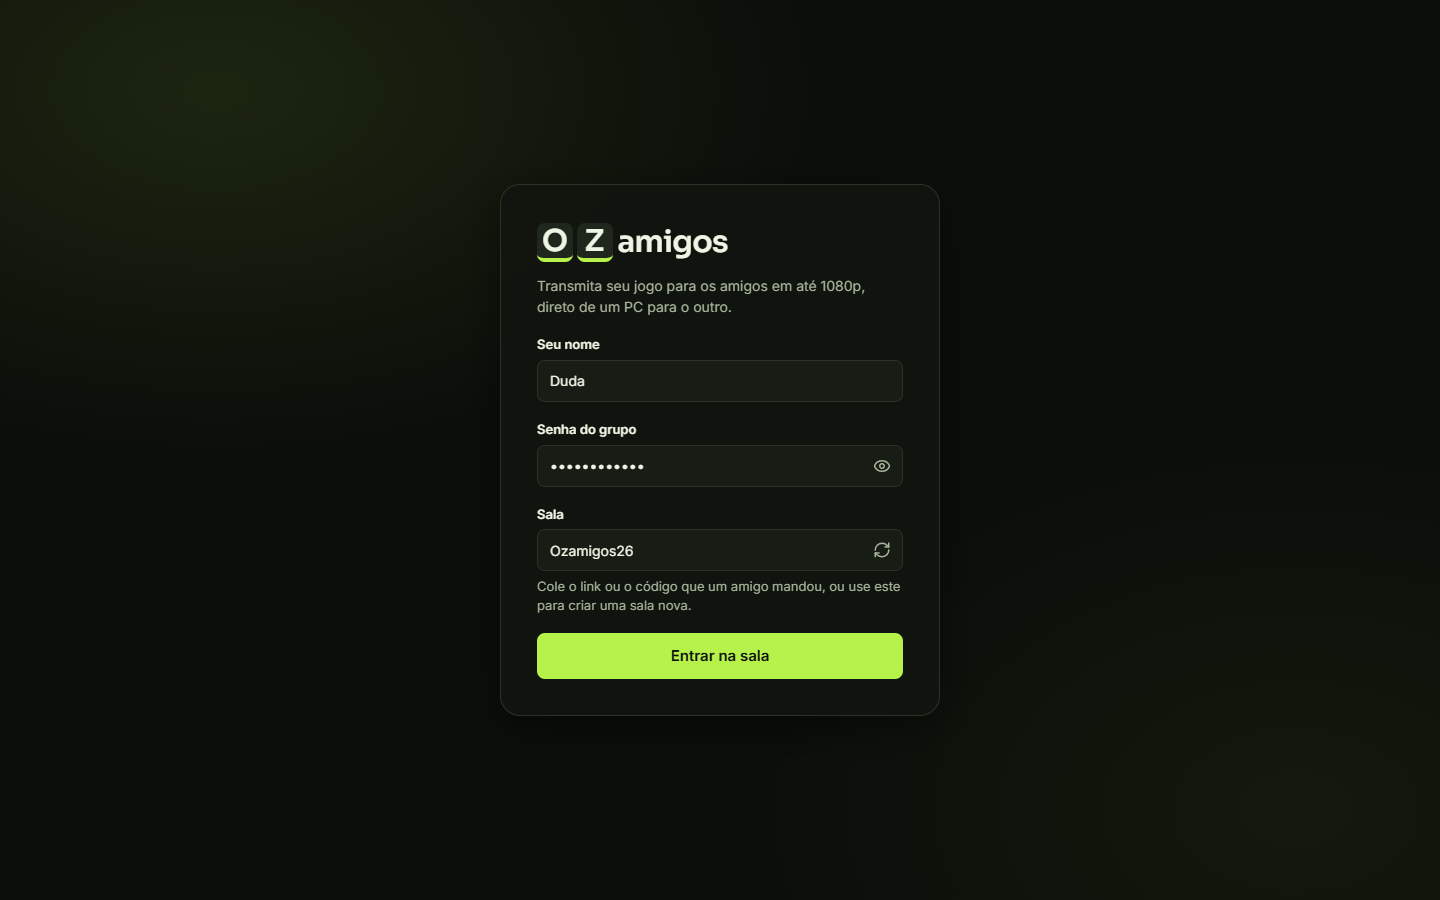
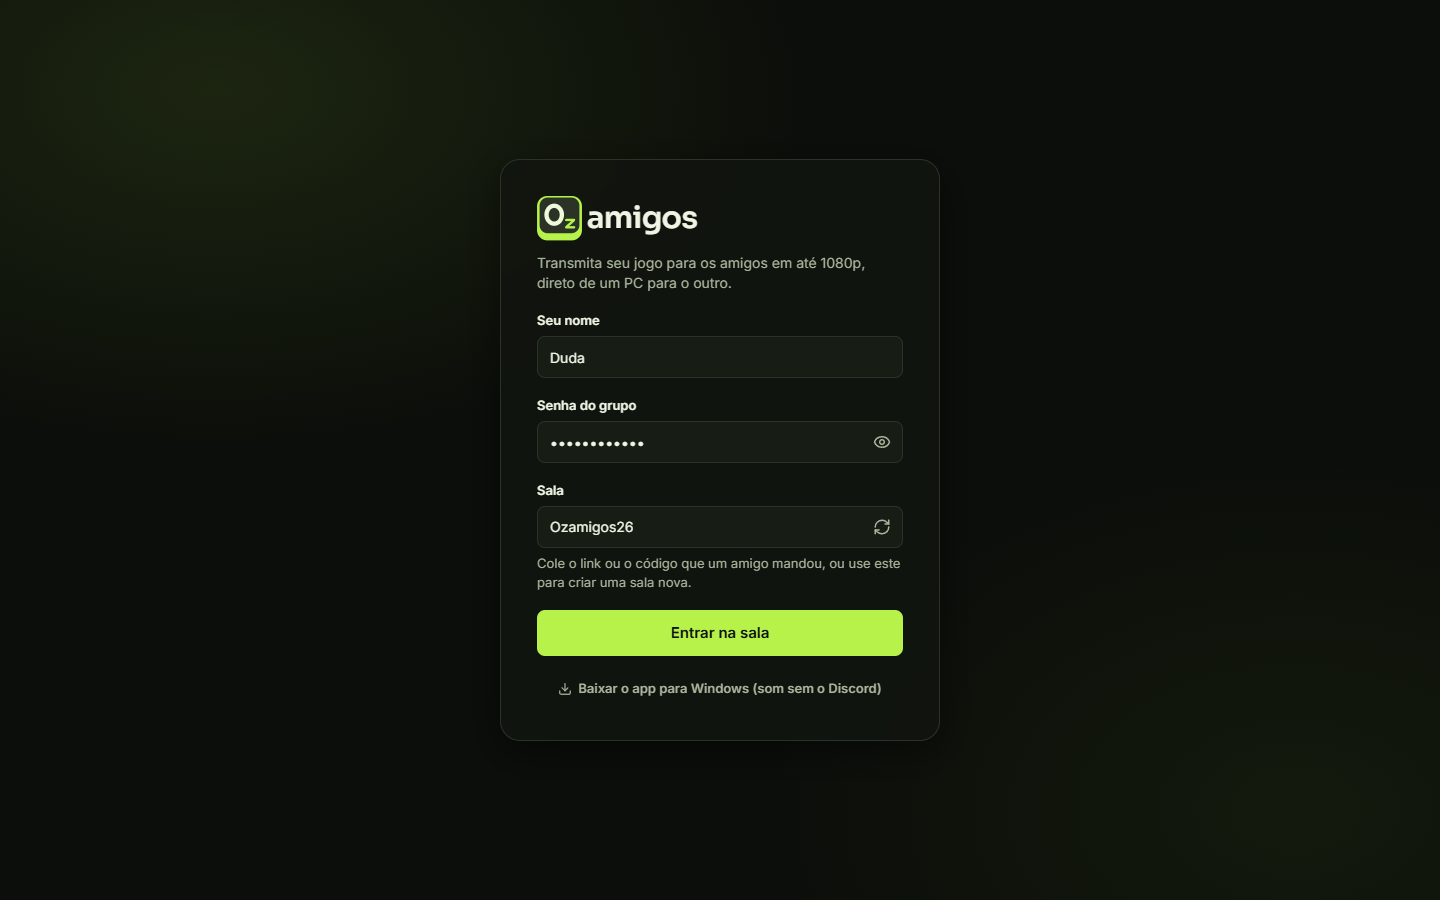
Versão 1.2.6 do app: logotipo com a tecla "Oz" do ícone
O logotipo passa a usar a própria tecla do ícone (mesmo desenho do "O" e do "z"),
seguida de "amigos", no lugar das teclas "O" e "Z" separadas. Vale para a interface,
o site (PT e EN), a tela de início e a janela de atualização do app e as imagens do README.

Changed region(s): [[0.375, 0.5289, 0.625, 0.7778], [0.375, 0.2178, 0.5938, 0.5289], [0.5938, 0.4667, 0.625, 0.4978]]

diff --git a/docs/vitrine/marca.html b/docs/vitrine/marca.html
@@ -7,14 +7,12 @@
   @font-face { font-family: 'Inter'; font-weight: 100 900; src: url('../../web/node_modules/@fontsource-variable/inter/files/inter-latin-wght-normal.woff2'); }
   html, body { margin: 0; background: transparent; }
 
-  /* O logotipo: "O" e "Z" em teclas, seguidos de "amigos". */
+  /* O logotipo: a tecla "Oz" do ícone (o mesmo desenho), seguida de "amigos". */
   .logo { display: inline-flex; align-items: center; padding: 6px; font-family: 'Sora'; font-weight: 600; font-size: 96px; letter-spacing: -0.02em; line-height: 1; }
-  .tecla { display: inline-grid; place-items: center; min-width: 1.2em; height: 1.3em; margin-right: 0.12em; padding: 0 0.14em; border-bottom: 0.14em solid #b6f24a; border-radius: 0.26em; letter-spacing: 0; }
-  /* Tema escuro do GitHub: tecla um pouco mais clara que o fundo e texto claro. */
-  .tema-escuro .tecla { background: #2a3326; color: #eef5e4; }
+  .tecla-oz { flex: none; width: 1.5em; height: 1.48em; margin-right: 0.16em; }
+  /* Tema escuro do GitHub: texto claro. */
   .tema-escuro .resto { color: #eef5e4; }
-  /* Tema claro: tecla escura, como num teclado, e texto quase preto. */
-  .tema-claro .tecla { background: #1f261c; color: #eef5e4; }
+  /* Tema claro: texto quase preto. */
   .tema-claro .resto { color: #0f130e; }
 
   /* Prévia de link (1280x640): logotipo, frase e um pedaço da sala. */
@@ -29,9 +27,9 @@
 </style>
 </head>
 <body>
-  <div id="logo" class="logo" hidden><span class="tecla">O</span><span class="tecla">Z</span><span class="resto">amigos</span></div>
+  <div id="logo" class="logo" hidden><svg class="tecla-oz" viewBox="4 5 88 87" aria-hidden="true"><rect x="4" y="5" width="88" height="87" rx="20" fill="#b6f24a"/><rect x="9" y="8" width="78" height="70" rx="16" fill="#2a3326"/><ellipse cx="37.6" cy="41.7" rx="15" ry="17.5" fill="none" stroke="#eef9dc" stroke-width="8.5"/><path d="M61 52h15.6L61 66.4h15.6" fill="none" stroke="#b6f24a" stroke-width="4.7" stroke-linecap="round" stroke-linejoin="round"/></svg><span class="resto">amigos</span></div>
   <div id="social" class="social tema-escuro" hidden>
-    <div class="logo"><span class="tecla">O</span><span class="tecla">Z</span><span class="resto">amigos</span></div>
+    <div class="logo"><svg class="tecla-oz" viewBox="4 5 88 87" aria-hidden="true"><rect x="4" y="5" width="88" height="87" rx="20" fill="#b6f24a"/><rect x="9" y="8" width="78" height="70" rx="16" fill="#2a3326"/><ellipse cx="37.6" cy="41.7" rx="15" ry="17.5" fill="none" stroke="#eef9dc" stroke-width="8.5"/><path d="M61 52h15.6L61 66.4h15.6" fill="none" stroke="#b6f24a" stroke-width="4.7" stroke-linecap="round" stroke-linejoin="round"/></svg><span class="resto">amigos</span></div>
     <p class="frase">Transmita seu jogo para os amigos.<br><strong>Direto de um PC para o outro, em até 1080p.</strong></p>
     <img class="print" src="../imagens/sala-grade.png" alt="">
   </div>

diff --git a/site/index.html b/site/index.html
@@ -82,7 +82,7 @@
     <header class="topo">
       <div class="largura topo-conteudo">
         <a href="./" class="marca" aria-label="Ozamigos, início">
-          <span class="logo" aria-hidden="true"><span class="tecla">O</span><span class="tecla">Z</span><span>amigos</span></span>
+          <span class="logo" aria-hidden="true"><svg class="tecla-oz" viewBox="4 5 88 87" aria-hidden="true"><rect x="4" y="5" width="88" height="87" rx="20" fill="#b6f24a"/><rect x="9" y="8" width="78" height="70" rx="16" fill="#2a3326"/><ellipse cx="37.6" cy="41.7" rx="15" ry="17.5" fill="none" stroke="#eef9dc" stroke-width="8.5"/><path d="M61 52h15.6L61 66.4h15.6" fill="none" stroke="#b6f24a" stroke-width="4.7" stroke-linecap="round" stroke-linejoin="round"/></svg><span>amigos</span></span>
         </a>
         <nav class="nav" aria-label="Seções">
           <a href="#recursos">Recursos</a>
@@ -373,7 +373,7 @@
 
     <footer class="rodape">
       <div class="largura rodape-conteudo">
-        <span class="logo" aria-hidden="true"><span class="tecla">O</span><span class="tecla">Z</span><span>amigos</span></span>
+        <span class="logo" aria-hidden="true"><svg class="tecla-oz" viewBox="4 5 88 87" aria-hidden="true"><rect x="4" y="5" width="88" height="87" rx="20" fill="#b6f24a"/><rect x="9" y="8" width="78" height="70" rx="16" fill="#2a3326"/><ellipse cx="37.6" cy="41.7" rx="15" ry="17.5" fill="none" stroke="#eef9dc" stroke-width="8.5"/><path d="M61 52h15.6L61 66.4h15.6" fill="none" stroke="#b6f24a" stroke-width="4.7" stroke-linecap="round" stroke-linejoin="round"/></svg><span>amigos</span></span>
         <nav aria-label="Links do projeto">
           <a href="#privacidade">Privacidade</a>
           <a href="https://github.com/kayokalinauskas/ozamigos">Código no GitHub</a>

diff --git a/site/en/index.html b/site/en/index.html
@@ -82,7 +82,7 @@
     <header class="topo">
       <div class="largura topo-conteudo">
         <a href="./" class="marca" aria-label="Ozamigos, home">
-          <span class="logo" aria-hidden="true"><span class="tecla">O</span><span class="tecla">Z</span><span>amigos</span></span>
+          <span class="logo" aria-hidden="true"><svg class="tecla-oz" viewBox="4 5 88 87" aria-hidden="true"><rect x="4" y="5" width="88" height="87" rx="20" fill="#b6f24a"/><rect x="9" y="8" width="78" height="70" rx="16" fill="#2a3326"/><ellipse cx="37.6" cy="41.7" rx="15" ry="17.5" fill="none" stroke="#eef9dc" stroke-width="8.5"/><path d="M61 52h15.6L61 66.4h15.6" fill="none" stroke="#b6f24a" stroke-width="4.7" stroke-linecap="round" stroke-linejoin="round"/></svg><span>amigos</span></span>
         </a>
         <nav class="nav" aria-label="Sections">
           <a href="#features">Features</a>
@@ -380,7 +380,7 @@
 
     <footer class="rodape">
       <div class="largura rodape-conteudo">
-        <span class="logo" aria-hidden="true"><span class="tecla">O</span><span class="tecla">Z</span><span>amigos</span></span>
+        <span class="logo" aria-hidden="true"><svg class="tecla-oz" viewBox="4 5 88 87" aria-hidden="true"><rect x="4" y="5" width="88" height="87" rx="20" fill="#b6f24a"/><rect x="9" y="8" width="78" height="70" rx="16" fill="#2a3326"/><ellipse cx="37.6" cy="41.7" rx="15" ry="17.5" fill="none" stroke="#eef9dc" stroke-width="8.5"/><path d="M61 52h15.6L61 66.4h15.6" fill="none" stroke="#b6f24a" stroke-width="4.7" stroke-linecap="round" stroke-linejoin="round"/></svg><span>amigos</span></span>
         <nav aria-label="Project links">
           <a href="#privacy">Privacy</a>
           <a href="https://github.com/kayokalinauskas/ozamigos">Code on GitHub</a>

diff --git a/web/src/componentes/Logo.tsx b/web/src/componentes/Logo.tsx
@@ -1,14 +1,14 @@
-/** O logotipo: "O" e "Z" em teclas de teclado gamer, seguidos de "amigos" (o mesmo desenho do ícone). */
+/** O logotipo: a tecla "Oz" do ícone (o mesmo desenho de public/icone.svg), seguida de "amigos". */
 export function Logo({ grande = false }: { grande?: boolean }) {
   return (
     <div className={grande ? 'logo logo-grande' : 'logo'}>
       <span className="so-para-leitores">Ozamigos</span>
-      <span className="tecla" aria-hidden="true">
-        O
-      </span>
-      <span className="tecla" aria-hidden="true">
-        Z
-      </span>
+      <svg className="tecla-oz" viewBox="4 5 88 87" aria-hidden="true">
+        <rect x="4" y="5" width="88" height="87" rx="20" fill="#b6f24a" />
+        <rect x="9" y="8" width="78" height="70" rx="16" fill="#2a3326" />
+        <ellipse cx="37.6" cy="41.7" rx="15" ry="17.5" fill="none" stroke="#eef9dc" strokeWidth="8.5" />
+        <path d="M61 52h15.6L61 66.4h15.6" fill="none" stroke="#b6f24a" strokeWidth="4.7" strokeLinecap="round" strokeLinejoin="round" />
+      </svg>
       <span aria-hidden="true">amigos</span>
     </div>
   );

diff --git a/desktop/atualizando.html b/desktop/atualizando.html
@@ -11,7 +11,7 @@
     <!-- Mostrada só enquanto uma versão nova baixa; o main.js atualiza a barra e o texto. -->
     <main class="atualizando">
       <h1 class="logo" aria-label="Ozamigos">
-        <span class="tecla" aria-hidden="true">O</span><span class="tecla" aria-hidden="true">Z</span><span aria-hidden="true">amigos</span>
+        <svg class="tecla-oz" viewBox="4 5 88 87" aria-hidden="true"><rect x="4" y="5" width="88" height="87" rx="20" fill="#b6f24a"/><rect x="9" y="8" width="78" height="70" rx="16" fill="#2a3326"/><ellipse cx="37.6" cy="41.7" rx="15" ry="17.5" fill="none" stroke="#eef9dc" stroke-width="8.5"/><path d="M61 52h15.6L61 66.4h15.6" fill="none" stroke="#b6f24a" stroke-width="4.7" stroke-linecap="round" stroke-linejoin="round"/></svg><span aria-hidden="true">amigos</span>
       </h1>
       <p id="mensagem" role="status">Baixando a versão nova…</p>
       <div class="barra" aria-hidden="true"><div id="progresso"></div></div>

diff --git a/desktop/inicio.html b/desktop/inicio.html
@@ -11,7 +11,7 @@
     <main>
       <form id="formulario">
         <h1 class="logo" aria-label="Ozamigos">
-          <span class="tecla" aria-hidden="true">O</span><span class="tecla" aria-hidden="true">Z</span><span aria-hidden="true">amigos</span>
+          <svg class="tecla-oz" viewBox="4 5 88 87" aria-hidden="true"><rect x="4" y="5" width="88" height="87" rx="20" fill="#b6f24a"/><rect x="9" y="8" width="78" height="70" rx="16" fill="#2a3326"/><ellipse cx="37.6" cy="41.7" rx="15" ry="17.5" fill="none" stroke="#eef9dc" stroke-width="8.5"/><path d="M61 52h15.6L61 66.4h15.6" fill="none" stroke="#b6f24a" stroke-width="4.7" stroke-linecap="round" stroke-linejoin="round"/></svg><span aria-hidden="true">amigos</span>
         </h1>
         <p class="subtitulo">Qual é o endereço do servidor do seu grupo? Quem fez o deploy no Render sabe (algo como https://ozamigos.onrender.com).</p>
         <label>

diff --git a/site/404.html b/site/404.html
@@ -13,7 +13,7 @@
   </head>
   <body>
     <main class="largura nao-encontrada">
-      <span class="logo" aria-hidden="true"><span class="tecla">O</span><span class="tecla">Z</span><span>amigos</span></span>
+      <span class="logo" aria-hidden="true"><svg class="tecla-oz" viewBox="4 5 88 87" aria-hidden="true"><rect x="4" y="5" width="88" height="87" rx="20" fill="#b6f24a"/><rect x="9" y="8" width="78" height="70" rx="16" fill="#2a3326"/><ellipse cx="37.6" cy="41.7" rx="15" ry="17.5" fill="none" stroke="#eef9dc" stroke-width="8.5"/><path d="M61 52h15.6L61 66.4h15.6" fill="none" stroke="#b6f24a" stroke-width="4.7" stroke-linecap="round" stroke-linejoin="round"/></svg><span>amigos</span></span>
       <h1>Página não encontrada</h1>
       <p class="lead">O endereço pode ter mudado. Volte para o início ou abra o app no navegador.</p>
       <div class="chamada-botoes">

diff --git a/web/src/estilo.css b/web/src/estilo.css
@@ -193,7 +193,7 @@ code {
 }
 
 /* ===== Logo e avatar ===== */
-/* O logotipo: "O" e "Z" em teclas de teclado (a borda verde é a lateral da tecla), seguidos de "amigos". */
+/* O logotipo: a tecla "Oz" do ícone (o mesmo desenho, a borda verde é a lateral da tecla), seguida de "amigos". */
 .logo {
   display: flex;
   align-items: center;
@@ -207,22 +207,11 @@ code {
   font-size: 30px;
 }
 
-.tecla {
-  display: inline-grid;
-  place-items: center;
-  min-width: 1.2em;
-  height: 1.3em;
-  margin-right: 0.12em;
-  padding: 0 0.14em;
-  border-bottom: 0.14em solid var(--destaque);
-  border-radius: 0.26em;
-  background: var(--painel-3);
-  line-height: 1;
-  letter-spacing: 0;
-}
-
-.tecla + span:not(.tecla) {
-  margin-left: 0.04em;
+.tecla-oz {
+  flex: none;
+  width: 1.5em;
+  height: 1.48em;
+  margin-right: 0.16em;
 }
 
 .so-para-leitores {

diff --git a/site/estilo.css b/site/estilo.css
@@ -147,7 +147,7 @@ img {
   margin-inline: auto;
 }
 
-/* ===== Logo (as teclas O e Z, como no ícone) ===== */
+/* ===== Logo (a tecla "Oz" do ícone, com o mesmo desenho, seguida de "amigos") ===== */
 .logo {
   display: inline-flex;
   align-items: center;
@@ -158,22 +158,11 @@ img {
   color: var(--texto);
 }
 
-.tecla {
-  display: inline-grid;
-  place-items: center;
-  min-width: 1.2em;
-  height: 1.3em;
-  margin-right: 0.12em;
-  padding: 0 0.14em;
-  border-bottom: 0.14em solid var(--destaque);
-  border-radius: 0.26em;
-  background: var(--painel-3);
-  line-height: 1;
-  letter-spacing: 0;
-}
-
-.tecla + span:not(.tecla) {
-  margin-left: 0.04em;
+.tecla-oz {
+  flex: none;
+  width: 1.5em;
+  height: 1.48em;
+  margin-right: 0.16em;
 }
 
 /* ===== Botões ===== */

diff --git a/desktop/inicio.css b/desktop/inicio.css
@@ -67,19 +67,12 @@ form {
   letter-spacing: -0.02em;
 }
 
-/* "O" e "Z" em teclas de teclado, como no ícone. */
-.tecla {
-  display: inline-grid;
-  place-items: center;
-  min-width: 1.2em;
-  height: 1.3em;
-  margin-right: 0.12em;
-  padding: 0 0.14em;
-  border-bottom: 0.14em solid var(--destaque);
-  border-radius: 0.26em;
-  background: var(--painel-3);
-  line-height: 1;
-  letter-spacing: 0;
+/* A tecla "Oz": o mesmo desenho do ícone. */
+.tecla-oz {
+  flex: none;
+  width: 1.5em;
+  height: 1.48em;
+  margin-right: 0.16em;
 }
 
 p {

diff --git a/AGENTS.md b/AGENTS.md
@@ -32,7 +32,7 @@ Deploy: Render (Docker). O `Dockerfile` tem 3 etapas: Node monta `web/`, o JDK c
   - o `appId` (`dev.ozamigos.share`): com ele, o instalador novo reconhece e substitui o antigo;
   - a pasta de dados `%APPDATA%\Ozamigos Share`, fixada com `app.setPath('userData', ...)` no topo do `main.js`. Sem isso, o nome novo levaria o Electron para uma pasta vazia e todos perderiam o servidor, o nome, a senha e os volumes.
 - **Ícone "Tecla OZ":** uma tecla de teclado com o "O" claro e o "z" verde no canto. A tecla ocupa o quadro inteiro, com fundo transparente: com uma placa escura em volta (até a 1.2.0) ela ficava menor que os outros ícones na barra de tarefas. A geometria (em 96×96) existe em **dois lugares, que precisam ficar iguais**: `web/public/icone.svg` (favicon) e `desktop/build/gerar-icone.js`, que desenha o `desktop/build/icone.ico` (ícone do app, da janela e do instalador) e o `icone.png` de referência; rode `npm run icone` em `desktop`. O `.ico` tem cada tamanho, de 16 a 256, desenhado direto naquele tamanho (BMP até 128, PNG no 256): usar o PNG de 256 deixava torto o ícone de 16 da barra de título.
-- **Logotipo:** "O" e "Z" em teclas (`.tecla`, com a borda de baixo verde fazendo a lateral) seguidos de "amigos", na fonte Sora. Na interface, vem do pacote `@fontsource-variable/sora` (`Logo.tsx`); na tela de início do app, de `desktop/build/sora.woff2` (licença OFL ao lado).
+- **Logotipo:** a tecla "Oz" do ícone, como SVG em linha (`.tecla-oz`, a mesma geometria, com `viewBox="4 5 88 87"` recortando a tecla), seguida de "amigos" na fonte Sora. O SVG está repetido em `Logo.tsx`, no site (`index.html`, `en/index.html` e `404.html`), em `desktop/inicio.html`, `desktop/atualizando.html` e `docs/vitrine/marca.html`: se o ícone mudar, mude todos. A Sora vem do pacote `@fontsource-variable/sora` na interface, de `site/fontes/sora.woff2` no site e de `desktop/build/sora.woff2` na tela de início do app (licença OFL ao lado).
 - **Paleta Lima** (tokens em `web/src/estilo.css`, repetidos em `desktop/inicio.css`): fundo grafite esverdeado (`--fundo` `#0b0e0a`) e destaque verde-limão (`--destaque` `#b6f24a`). **Texto em cima do verde é escuro** (`--no-destaque`), nunca branco. O vermelho continua reservado para "ao vivo" (`--ao-vivo`).
 
 ## Comandos (PowerShell, a partir da raiz)

diff --git a/CHANGELOG.md b/CHANGELOG.md
@@ -6,6 +6,11 @@ Os arquivos de cada versão estão em [Releases](https://github.com/kayokalinaus
 
 O servidor e a versão web não têm número de versão: cada push na `main` vai para o ar no Render.
 
+## [1.2.6] - 2026-10-13
+
+### Alterado
+- Logotipo novo: a tecla "Oz" do ícone, com o mesmo desenho, seguida de "amigos" (antes eram duas teclas, "O" e "Z"). Muda na tela de início, na janela de atualização, na interface, no site e no README.
+
 ## [1.2.5] - 2026-10-13
 
 As melhorias da interface valem também para quem ainda está numa versão anterior (o app carrega a interface
@@ -105,6 +110,7 @@ do servidor); só as miniaturas em JPEG dependem desta versão.
 ### Adicionado
 - Primeira versão do app para Windows: salas com senha, várias transmissões ao mesmo tempo, volume por transmissão, grade ou destaque, até 1080p e som do PC sem o eco do Discord.
 
+[1.2.6]: https://github.com/kayokalinauskas/ozamigos/compare/v1.2.5...v1.2.6
 [1.2.5]: https://github.com/kayokalinauskas/ozamigos/compare/v1.2.4...v1.2.5
 [1.2.4]: https://github.com/kayokalinauskas/ozamigos/compare/v1.2.3...v1.2.4
 [1.2.3]: https://github.com/kayokalinauskas/ozamigos/compare/v1.2.2...v1.2.3
